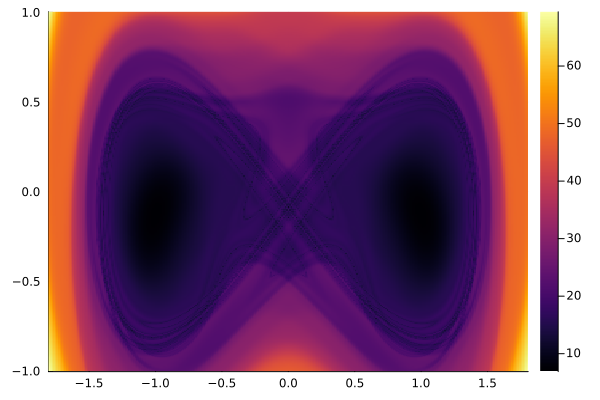
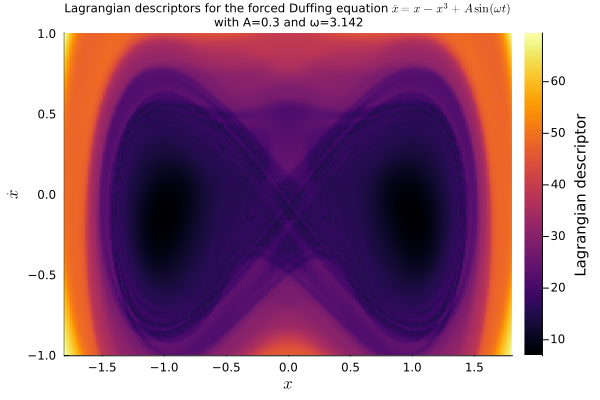
Docs follow-up: titled README figure, runnable post-processing example
- Regenerate docs/src/img/duffing.png with a title and axis labels, as
  the figure had before, and use the same plot call in the README so the
  code and the figure match.
- Post-processing page: rename the illustrative implementation to
  `simple_lagrangian_descriptor`, so it no longer clashes with the
  package's `lagrangian_descriptor` and runs with the other examples.
  The page now checks that both post-processing versions agree with the
  augmented system, and benchmarks both. Running it showed that it needs
  `using SciMLBase: isinplace` (added to the docs environment), since
  OrdinaryDiffEq no longer exports `isinplace`.
- Fix a performance regression in `lagrangian_descriptor` for ODE
  solutions, found with the new benchmarks: the closures of the in-place
  and out-of-place branches shared a local variable, which was boxed,
  making both type unstable. Each integrand is now built in its own
  function. In-place: 37 us and 10 allocations instead of 103 us and 4385
  allocations; out of place: 180 us instead of 220 us. Same values.
- Update the conclusion of the benchmarks accordingly.

diff --git a/docs/src/postprocessing.md b/docs/src/postprocessing.md
@@ -23,8 +23,12 @@ first(quadgk(M, minimum(tspan), maximum(tspan)))
 
 For a more generic implementation for `ODESolution` types, in either in-place or out-of-place cases, and for either backward or forward descriptors, one can define a function such as
 
-```julia
-function lagrangian_descriptor(sol::ODESolution, M)
+```@example postprocessing
+using OrdinaryDiffEq
+using SciMLBase: isinplace
+using QuadGK: quadgk
+
+function simple_lagrangian_descriptor(sol::ODESolution, M)
     t0, tf = extrema(sol.prob.tspan)
     integrand = isinplace(sol.prob) ?
         function (t, du = similar(sol.prob.u0))
@@ -37,9 +41,10 @@ function lagrangian_descriptor(sol::ODESolution, M)
         end
     return first(quadgk(integrand, t0, tf))
 end
+nothing # hide
 ```
 
-A version of this, which also avoids some allocations, is available in the package as [`lagrangian_descriptor`](@ref). With it, we compare the two different approaches, making sure they yield the same result, up to approximation errors:
+A version of this, which also avoids some allocations, is available in the package as [`lagrangian_descriptor`](@ref). We compare the two approaches, augmenting the system and post-processing its solutions, the latter with both versions, making sure they yield the same result, up to approximation errors:
 
 ```@example postprocessing
 using OrdinaryDiffEq, Test
@@ -73,6 +78,8 @@ augsol = solve(augprob, Tsit5())
 @testset "Augmented vs post-processing" begin
     @test augsol.u[end].lfwd ≈ lagrangian_descriptor(solfwd, M) rtol = 0.01
     @test augsol.u[end].lbwd ≈ lagrangian_descriptor(solbwd, M) atol = 0.01
+    @test simple_lagrangian_descriptor(solfwd, M) ≈ lagrangian_descriptor(solfwd, M) rtol = 1e-6
+    @test simple_lagrangian_descriptor(solbwd, M) ≈ lagrangian_descriptor(solbwd, M) rtol = 1e-6
 end
 nothing # hide
 ```
@@ -94,6 +101,8 @@ benchmarks = [
     "Solve augmented ODE problem" => @benchmark(solve($augprob, $(Tsit5()))),
     "Post-processing for forward Lagrangian descriptor" => @benchmark(lagrangian_descriptor($solfwd, $M)),
     "Post-processing for backward Lagrangian descriptor" => @benchmark(lagrangian_descriptor($solbwd, $M)),
+    "Simple post-processing, forward" => @benchmark(simple_lagrangian_descriptor($solfwd, $M)),
+    "Simple post-processing, backward" => @benchmark(simple_lagrangian_descriptor($solbwd, $M)),
 ]
 
 Text(join((rpad(name, 52) * lpad(BenchmarkTools.prettytime(minimum(b).time), 12) *
@@ -104,4 +113,6 @@ Text(join((rpad(name, 52) * lpad(BenchmarkTools.prettytime(minimum(b).time), 12)
 
 We see that solving the augmented system, with the forward and backward evolutions together, takes about as long as solving the forward and backward equations separately, while it also computes the Lagrangian descriptors.
 
-On the other hand, solving the forward and backward equations separately requires a post-processing step for each of the forward and backward evolutions to obtain the Lagrangian descriptors, and that takes considerably longer, with substantially more allocations and memory. And this was done for a single trajectory. Imagine it for an ensemble of solutions, on top of the memory demand of saving the full solutions.
+On the other hand, solving the forward and backward equations separately requires a post-processing step for each of the forward and backward evolutions to obtain the Lagrangian descriptors, and each of these steps takes longer than solving the augmented system itself. Altogether, this route takes several times as long as solving the augmented system, and it needs the full solutions to be saved, while the augmented system only needs the values of the descriptors at the final time. And this was done for a single trajectory. Imagine it for an ensemble of solutions.
+
+The package's [`lagrangian_descriptor`](@ref) is faster than the simple version above, and allocates much less, since it interpolates the solution in place and evaluates it only once at each time.

diff --git a/README.md b/README.md
@@ -48,7 +48,7 @@ julia> @time lagsol = solve(lagprob, Tsit5())
 Then we use the built-in plot recipe to get the heatmap of the Lagrangian descriptors:
 
 ```julia
-plot(lagsol)
+plot(lagsol, title="Lagrangian descriptors for the forced Duffing equation \$\\ddot x = x - x^3 + A\\sin(\\omega t)\$\nwith A=$A and ω=$(round(ω, digits=3))", titlefont=8, xlabel="\$x\$", ylabel="\$\\dot x\$")
 ```
 
 ![Duffing Lagrangian descriptor](docs/src/img/duffing.png)
